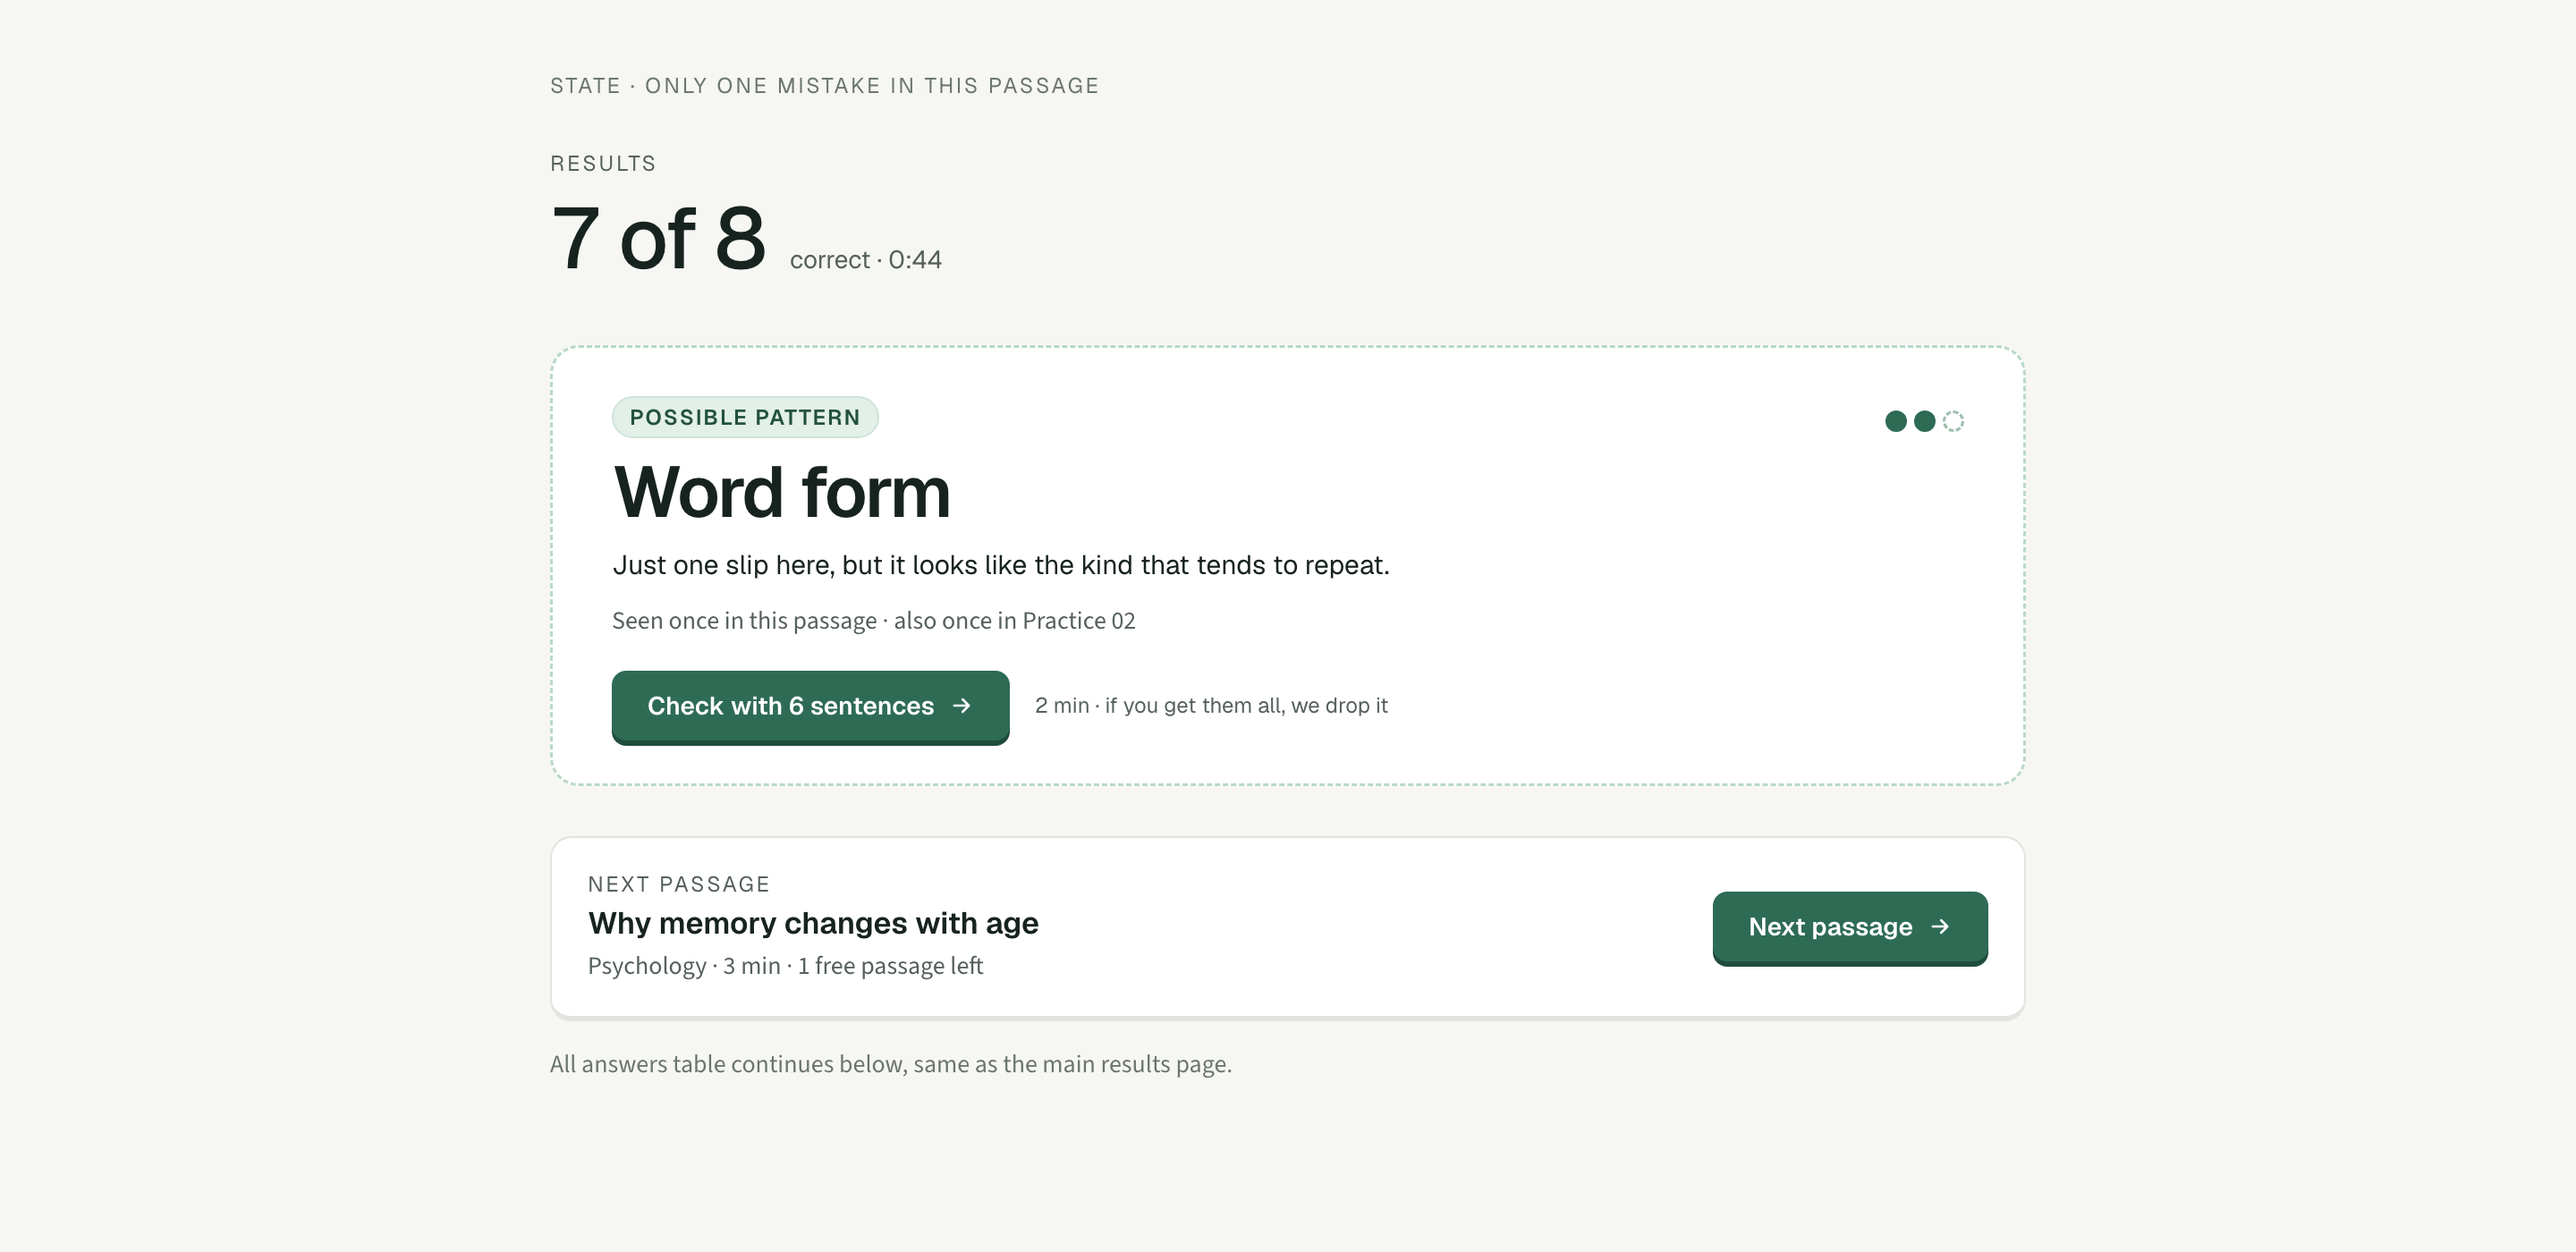
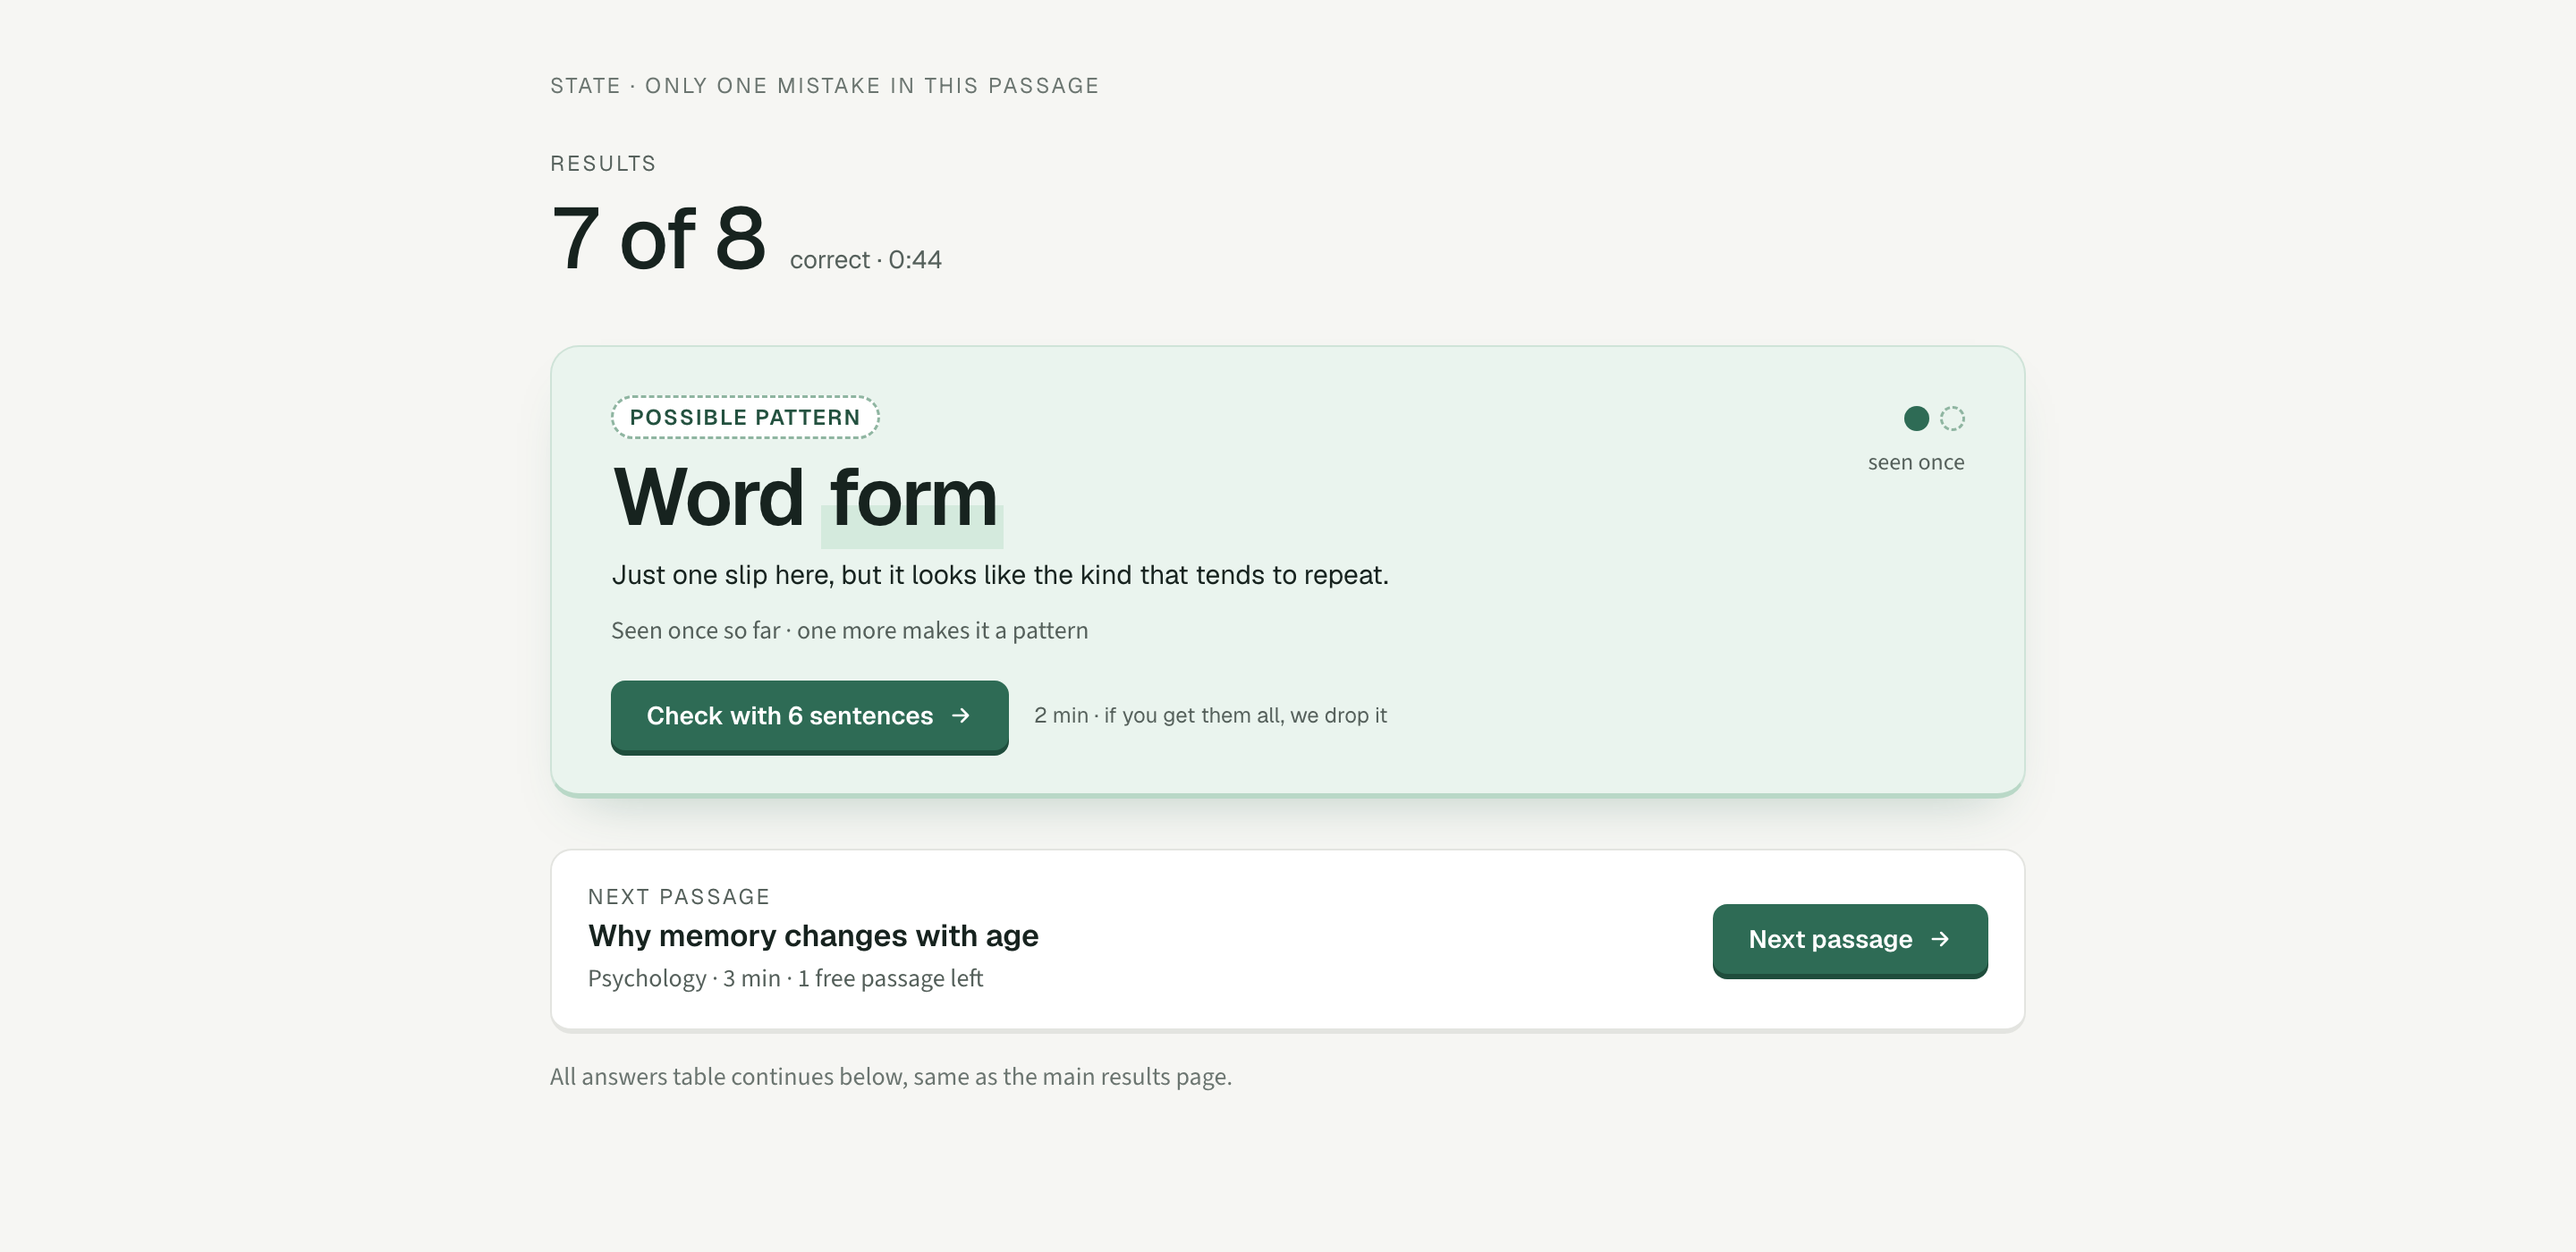
docs: unify pattern and possible-pattern cards with seen-dots

diff --git a/docs/product.md b/docs/product.md
@@ -170,10 +170,11 @@ Check the rules in the order shown. The first match wins.
 - **Top: the passage, marked in place.** Correct words get a green underline. Mistakes get an orange-tint background, with the wrong letters crossed out and followed by the correct letters. A legend above uses the words themselves as samples: *correct* (underlined) `5` and *mistake* (styled as a mistake) `3`.
 - **Below: the results** (the page opens scrolled to this point, but a line or two of the passage should still show at the top so learners know they can scroll up):
   - `5 of 8 correct · 5:21`
-  - **Pattern card** (mint, 22px radius): a solid green *PATTERN FOUND* badge, the pattern name in large type with a highlighter mark (e.g., *Word **form***), one line of feedback (*"Right word family, wrong job in the sentence."*), a ring and an evidence line showing the cross-passage count (*3/5 · "3 of your last 5 mistakes · across 2 passages"*), and the **Practice word form →** button with *"Practice 6 more like this · 2 min"*.
+  - **Pattern card** (mint, 22px radius): a solid green *PATTERN FOUND* badge, the pattern name in large type with a highlighter mark (e.g., *Word **form***), one line of feedback (*"Right word family, wrong job in the sentence."*), the **seen-dots** (one filled dot per time this pattern has been seen, with a small "seen 3 times" label) and an evidence line (*"3 of your last 5 mistakes · across 2 passages"*), and the **Practice word form →** button with *"Practice 6 more like this · 2 min"*.
   - **All answers table:** four columns: *Your answer · Correct · Type · Why this answer*. Mistakes come first, then a `CORRECT · 5` subheading. For correct words, the Correct column shows a green check.
     - **Why this answer column** (Source Sans 3, 15–16px): write it the way a teacher would when marking: **quote the original sentence and explain this blank**. Don't keep pointing out what the learner did wrong, avoid grammar jargon, and don't force every row into the same template. Examples: *"'Increases the' needs a noun here: resilience."* · *"'Growth and survival' pairs two nouns."* · *"'Are now studying' describes an action in progress."* · *"'Can support' takes the plain verb."*
-  - **Possible-pattern variant** (when no category has 2+ misses): white card with a dashed mint border, a *POSSIBLE PATTERN* tint badge, the pattern name (no highlighter), one line such as *"Just one slip here, but it looks like the kind that tends to repeat."*, the evidence line (*"Seen once in this passage · also once in Practice 02"*), dots for how many times it's been seen, and the **Check with 6 sentences →** button.
+  - **Possible-pattern variant** (when no category has 2+ misses): the **same mint card** as the pattern card (same highlighter, depth and button), with two differences: the badge is *POSSIBLE PATTERN* in white with a dashed green outline (instead of solid green), and the seen-dots show one filled dot plus one **dashed empty dot** (the threshold). Copy: *"Just one slip here, but it looks like the kind that tends to repeat."* and *"Seen once so far · one more makes it a pattern"*. Button: **Check with 6 sentences →**.
+  - **Seen-dots** are the shared indicator for both cards: filled green dot = one occurrence; dashed empty dot = still needed to become a pattern. No ring chart.
   - **Next passage card** at the bottom (white card with a 3px bottom edge): `NEXT PASSAGE` label, title, *topic · 3 min · N free passages left*, a **Try again** retry button, and a primary **Next passage →** button.
   - **Paywall** (when the free limit is reached): a centered white card with *"You've used your 2 free passages."*, a mint summary (*"13 of 16 correct · Pattern: Word form"*), three short benefits, a primary **Unlock full access · [PRICE]** button, and a text link *"Not now: review my answers"*. See `docs/design/07-paywall.png`.
 - **Table rules:** answer words must never break across lines (`white-space: nowrap`); if space is tight, the *What happened* column shrinks instead. Every row, including correct answers, gets its **own** Why line written for that blank (never a generic line like *"Correct form for this sentence."*). The Type tag names the skill that blank tests (from the blank's `errorCategory`), not a guess from the learner's answer.
